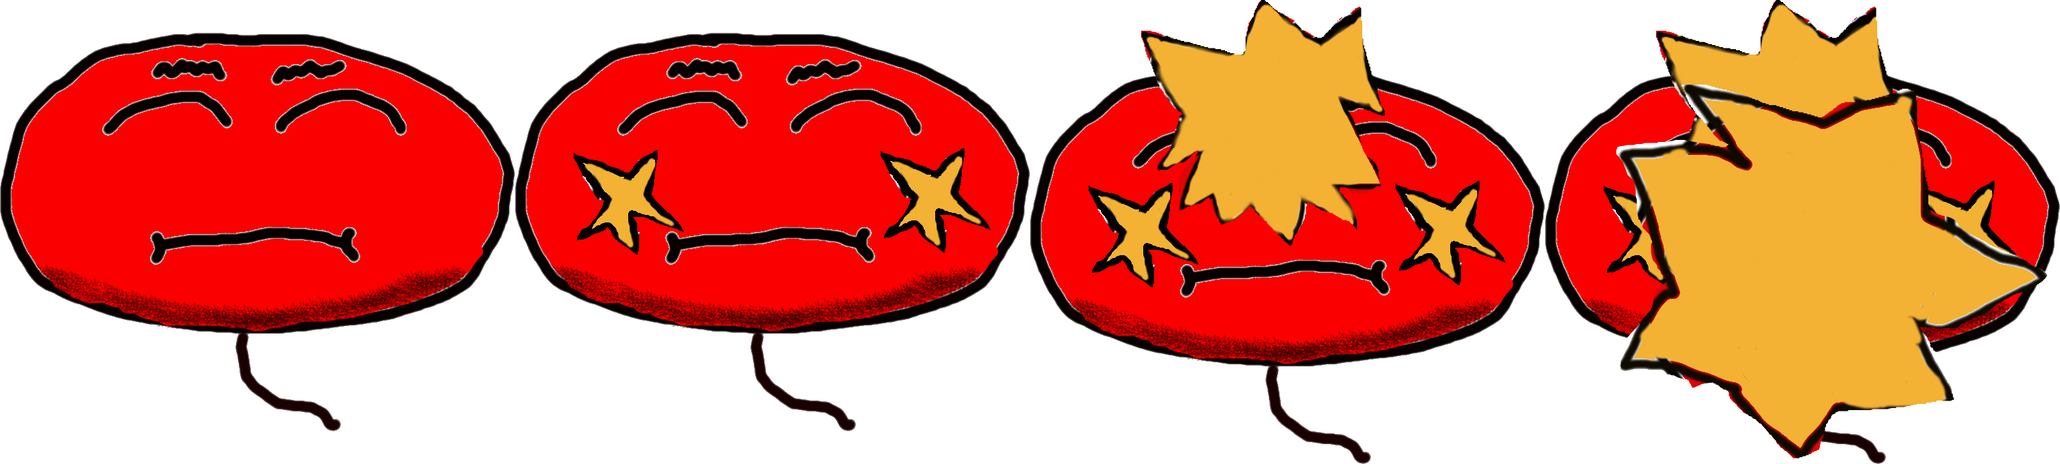
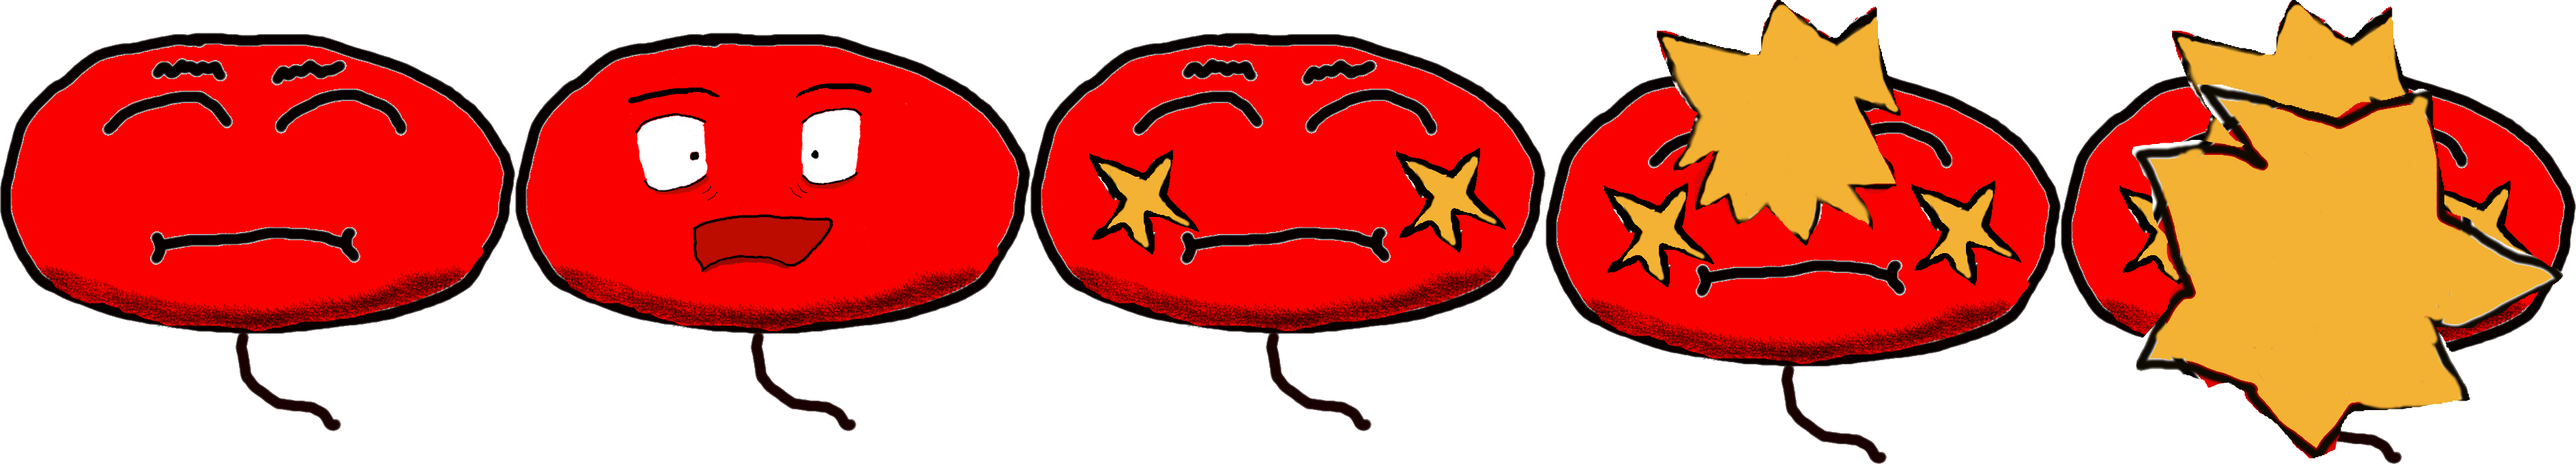
boss now animates! is gud

diff --git a/src/prefabs/enemyBoss.js b/src/prefabs/enemyBoss.js
@@ -39,6 +39,9 @@ class EnemyBoss extends Phaser.Sprite {
         this.anchor.set(0.5);
 
         this.health = 4;
+        this.lastHealth = this.health;
+        this.frameAnimation = 10;
+        this.currentAnimation = 0;
 
         this.targetX = this.player.x;
         this.targetY = this.player.y;
@@ -49,7 +52,21 @@ class EnemyBoss extends Phaser.Sprite {
         }, this);
     }
 
-    update() {}
+    update() {
+        if (this.currentAnimation === this.frameAnimation) {
+            this.frame = 0;
+            this.currentAnimation = 0;
+        }
+
+        if (this.frame === 1) {
+            this.currentAnimation++;
+        }
+
+        if (this.lastHealth !== this.health) {
+            this.frame = 1;
+        }
+        this.lastHealth = this.health;
+    }
 
     makeMove() {
         this.targetX = this.player.x;

diff --git a/src/states/gameover.js b/src/states/gameover.js
@@ -65,7 +65,6 @@ class Menu extends Phaser.State {
             strokeThickness: 5,
             align: "center"
         };
-        console.log(this.game);
         const text = this.game.add.text(this.game.world.centerX, this.game.world.centerY, message, style);
         text.anchor.set(0.5);
         text.alpha = 0;
